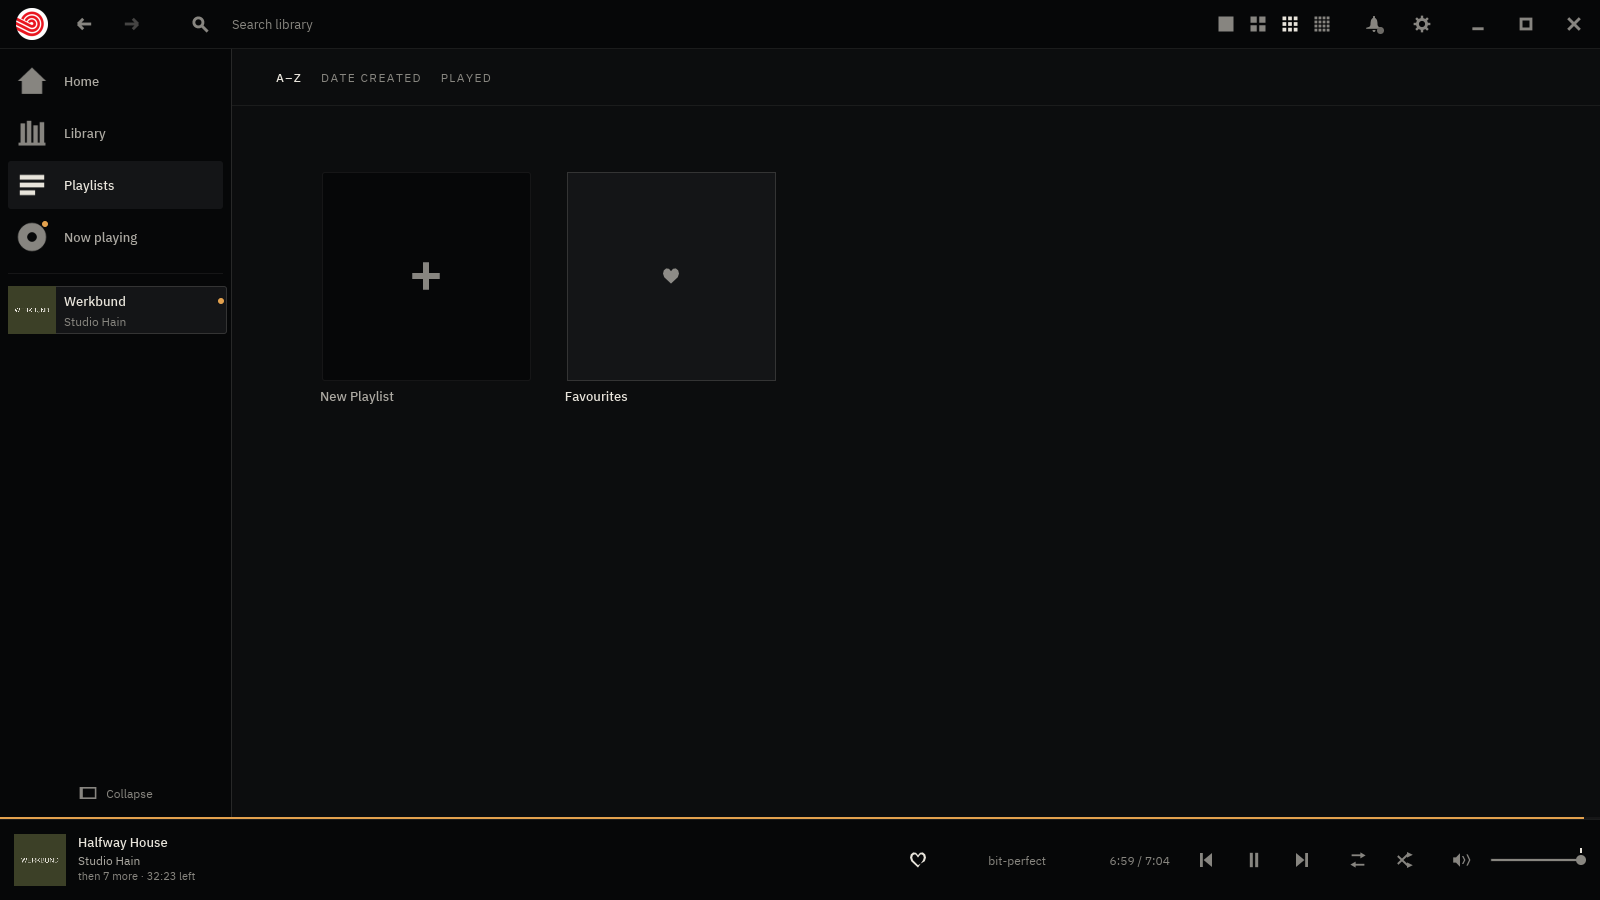
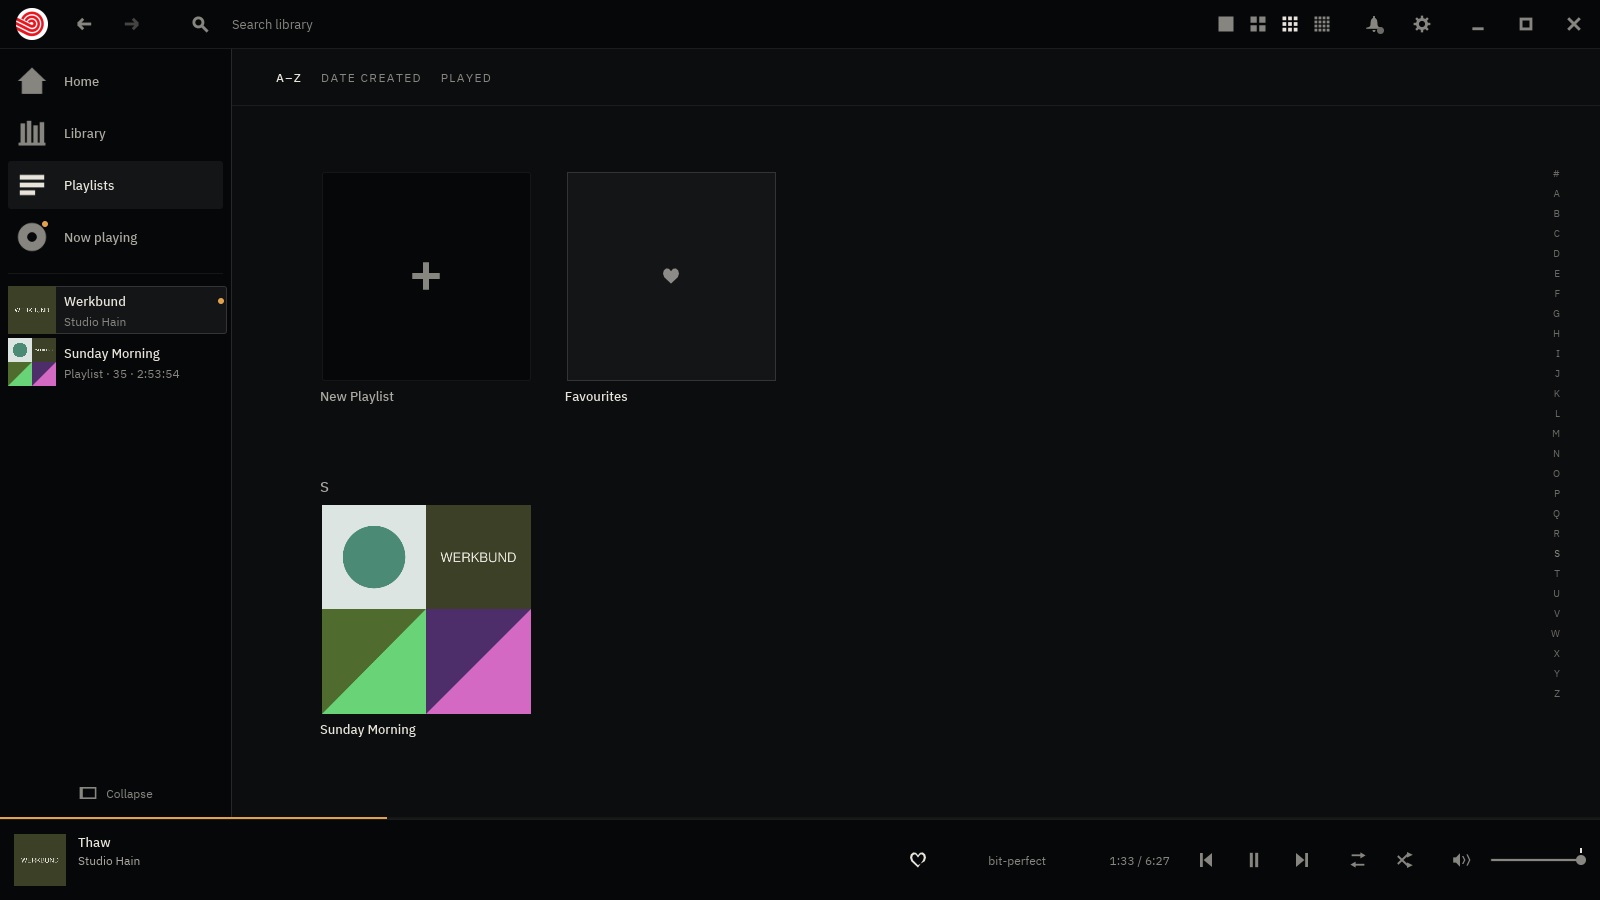
The store pictures build the playlist they photograph
Item 71. `docs/screenshots/capture.sh` built its list through the picker
panel by coordinates, and the route underneath had changed: the panel's
`New playlist` now opens the New playlist place with the record already
in the draft, so the name and the Save are there. The old lines typed
"Sunday Morning" into the app-bar search — type-anywhere took the
keystrokes, no field had focus — and pressed a Save that did not exist.
Every press after that missed and the run reported success, which is
why the shipped playlists frame was honest and empty.

The sequence is re-derived frame by frame and every number now says
which kind it is: `[arithmetic]` for the lane's rows, `[photograph]` for
the wall's tiles, the veil's options, the panel's rows, and the draft
place's field and Save. The run **exits 1** if the list is missing or
short — a capture that cannot tell a built list from an empty place is
not a verification.

Three pointer artefacts fell out of the re-shoot, all of them pictures
of the pointer rather than of the composition: the parking spot sat
inside Home's recently-added row and raised that tile's four choices;
the just-saved list stood selected, and a selected playlist tile raises
its options too; and the jewel case turns once every 32 s, so Now
Playing was caught edge-on — a black bar where the cover should be.
Park on dead ground, put the selection on a record first, wait for the
case to come round.
[…]

Changed region(s): [[0.1875, 0.56, 0.3438, 0.84], [0.0, 0.3733, 0.0938, 0.4356], [0.0625, 0.9333, 0.0938, 0.9644]]

diff --git a/docs/BACKLOG.md b/docs/BACKLOG.md
@@ -35,7 +35,7 @@
 
 | Ask | State | Where |
 |---|---|---|
-| *(not an ask — found while re-shooting the store pictures for the release)* the screenshot harness photographed the wrong places | **fixed 2026-08-15; one half backlogged as item 71** | `docs/screenshots/capture.sh` drives the real binary by coordinates, and its lane rows were `85 · 125 · 165 · 205` — the pitch the returns lane had **before** its rows became their own sleeves. Every one of the four store frames was off by a row: `playlist.png` was a photograph of *Home*. The lane numbers are re-derived (`81 · 133 · 185 · 237`, from `SIDEBAR_DEST_H` 48 on a `SIDEBAR_ROW_GAP` 4 seam under the app bar's 49) and the frames are correct. **The half that is backlogged**: the same drift silently broke the script's *playlist-building* sequence — a dozen presses through the picker panel at coordinates that have also moved — so the playlists frame is honest but empty, showing the ghost tile and `Favourites` and no listener-made list. Re-deriving that sequence needs a frame-by-frame pass, and the store page is not wrong without it. *Needs later: that pass, and a note in the script about which numbers are layout-derived and which are photographed.* |
+| *(not an ask — found while re-shooting the store pictures for the release)* the screenshot harness photographed the wrong places | **both halves fixed 2026-08-15 (item 71)** | `docs/screenshots/capture.sh` drives the real binary by coordinates, and its lane rows were `85 · 125 · 165 · 205` — the pitch the returns lane had **before** its rows became their own sleeves. Every one of the four store frames was off by a row: `playlist.png` was a photograph of *Home*. The lane numbers are re-derived (`81 · 133 · 185 · 237`, from `SIDEBAR_DEST_H` 48 on a `SIDEBAR_ROW_GAP` 4 seam under the app bar's 49) and the frames are correct. **The half that is backlogged**: the same drift silently broke the script's *playlist-building* sequence — a dozen presses through the picker panel at coordinates that have also moved — so the playlists frame is honest but empty, showing the ghost tile and `Favourites` and no listener-made list. Re-deriving that sequence needs a frame-by-frame pass, and the store page is not wrong without it. **That pass is done.** Every coordinate is now marked `[arithmetic]` or `[photograph]` in the script, and the sequence itself was rewritten because *the route had changed*: the panel's `New playlist` opens the New playlist place with the record already in the draft, so the name and the Save are there, not in the panel — the old lines typed the name into the app-bar search and pressed a Save that did not exist. The run now **exits 1** if `Sunday Morning.m3u8` is missing or short, because a capture that cannot tell a built list from an empty place is not a verification. Two more pointer artefacts fell out of the re-shoot: the parking spot sat inside Home's recently-added row, and the just-saved list stood selected (a selected playlist tile raises its options), so the run parks on dead ground and moves the selection to a record first. The jewel case turns once every 32 s and was being caught edge-on, so the Now Playing frame now waits for it. All four frames re-shot. |
 | *"lets ensure our changelog is up to date and accurate"* / *"ideally can we update our README etc. and remember the audience is just general music listeners not coders… we just need to pick the clear feature set"* | **both done 2026-08-15 (item 61)** | The changelog is current and states what each change *is for a listener*. The README is a bigger job than a trim: it is written for someone reading the repository — build instructions, dependency reasoning, known limitations by codec, the whole engineering argument — and the audience the owner names is *a person who wants to play their music*. **The shape to aim at**: what baz is in two lines, one picture, the eight or so things it does that a listener would choose it *for*, how to install it on each platform, and a link to the engineering documents for anyone who wants them. Everything now in the README that is really about *how it is built* moves to `docs/`, where it already has homes (`DEVELOPMENT.md`, `ENGINEERING.md`, `VISION.md`). **Shipped**: the README is now 190 lines against 341, opens with *what you get* in ten listener-sized bullets, and points at the releases page before it mentions `cargo`. Known limitations **stayed on the front page** — trimmed to the five a listener can actually hit (Opus, AAC gapless, stale rows after a deleted folder, one-at-a-time selection, the hostile-file reservation) with the reasoning one link away; they are what makes the rest of the page worth believing, and hiding them would be the first dishonest thing on it. Everything cut is in the new `docs/FEATURES.md` — the long version, nothing lost — and `release.yml`'s deep link to `#known-limitations` still resolves. |
 | *"we should also do a feature parity run to see what other players out there have and what we're missing"* | **analysed 2026-08-15 — `docs/design/18-feature-parity.md`; one shipped, nine queued as items 62–70** | The comparison set is foobar2000, MusicBee, Strawberry, Quod Libet, Rhythmbox and the streaming clients. Two questions per feature — *would a listener notice its absence in the first hour*, and *does it fit baz's promises* — so a gap and a refusal are told apart on the record. **One was shipped immediately because it is a floor rather than a feature**: baz had `repeat_one` and no *repeat the list*, which is the state most people mean by the word (item 2.1 of the doc). Queued, in the order the doc argues for: **multi-select and bulk actions** (62), **sleep timer** (63), **lyrics from tags and `.lrc`** (64), **ratings** (65), **rule-based playlists** (66), **tag editing** (67), **a folder view** (68), **crossfade** (69), **drag-and-drop from the file manager** (70). Refused on the record, with reasons: scrobbling, online metadata/cover fetching, ripping and transcoding, podcasts and subscription streaming, and a plugin API before its time. |
 | *(not an ask — found by the parity run)* baz had no **repeat the list** | **shipped 2026-08-15 — item 2.1 of the parity doc** | `repeat_one` was the only repeat state: a track could repeat and a run could not. One control cycles **off → the list → this track** now, the two lit states carrying different marks — the same loop, with and without a `1`, so the state does not rest on the accent alone. In the engine, `Repeat::All` restarts the **traversal's** top rather than queue position zero, so a shuffled run repeats the order it drew rather than jumping to whichever file happens to be first; and repeat-one remains the only state that shortens the plan, so every gapless splice inside a repeated list is unchanged. The config key moved `repeat_one = true` → `repeat = "one"`, and a file written by an older baz is still read. |

diff --git a/docs/WORK.md b/docs/WORK.md
@@ -1342,23 +1342,46 @@ because a player without it is missing a floor rather than a feature.
     an album onto the wall, files onto a playlist — which is the half people
     would use.
 
-71. **Not started — the store screenshots' playlist sequence.** The harness
+71. **Done 2026-08-15 — the store screenshots' playlist sequence.** The harness
     builds a playlist by hand in the running app (a dozen presses through the
     picker panel) so the frame is a picture of the feature rather than of a
     file dropped into a folder. Those coordinates drifted with the lane and
     the panel, silently: the run still succeeds and the list is never made,
     which is why the shipped playlists frame is honest but empty.
 
-    Re-derive them frame by frame, and mark in the script which numbers are
-    layout-derived (the lane's rows are arithmetic) and which are photographed
-    (the wall's tiles, the panel's rows). The four store frames are correct
-    without this; the playlists one is just thinner than it should be.
+    Re-derived frame by frame, and every number in the script now says which
+    kind it is — `[arithmetic]` for the lane's rows, `[photograph]` for the
+    wall's tiles, the tile veil's four options, the panel's rows and the new
+    playlist place's field and Save.
+
+    **The route itself had changed and nothing said so.** The panel's `New
+    playlist` no longer takes a name in the panel: it opens the canonical New
+    playlist place with the record already in the draft, and the name and the
+    Save live there. The old three lines typed `Sunday Morning` into the
+    *app-bar search* — type-anywhere took the keystrokes, because no field had
+    focus — and then pressed a `Save` that did not exist. Every press after
+    that missed, and the run reported success.
+
+    So the script now **fails loudly**: if `Sunday Morning.m3u8` is missing or
+    holds fewer than twenty tracks it prints what to re-derive and exits 1. A
+    capture that cannot tell a built list from an empty place is not a
+    verification, which is the whole lesson of this item.
+
+    Two more things the re-shoot caught, both *pictures of the pointer* rather
+    than of the composition: the parking spot (1400, 780) sat inside Home's
+    recently-added row and raised that tile's four choices, and the newly saved
+    list stood **selected**, which raises a playlist tile's options too — so
+    the run now parks at (1400, 430), dead ground on all four frames, and puts
+    the selection on a record's caption before it leaves the wall. And the
+    jewel case turns once every 32 s: shot on arrival it was caught edge-on, a
+    black bar where the cover should be, so the Now Playing frame waits for it
+    to come round.
 
 ## Doing
 
-- Nothing active — items 1–51, 53, 55, 56, 61 and 63 are complete, and the parity run
+- Nothing active — items 1–51, 53, 55, 56, 61, 63 and 71 are complete, and the parity run
   shipped two of its own findings (repeat-the-list and the sleep timer).
-  **Items 52, 54, 57–60, 62 and 64–71 are recorded and not started**: each is a
+  **Items 52, 54, 57–60, 62 and 64–70 are recorded and not started**: each is a
   decision with a real fork in it (where a playlist's authored image lives; how
   a row's card widens without nesting its controls; what live theme switching
   does to the process-cached sprite sheets; whether a rule-based list is a
